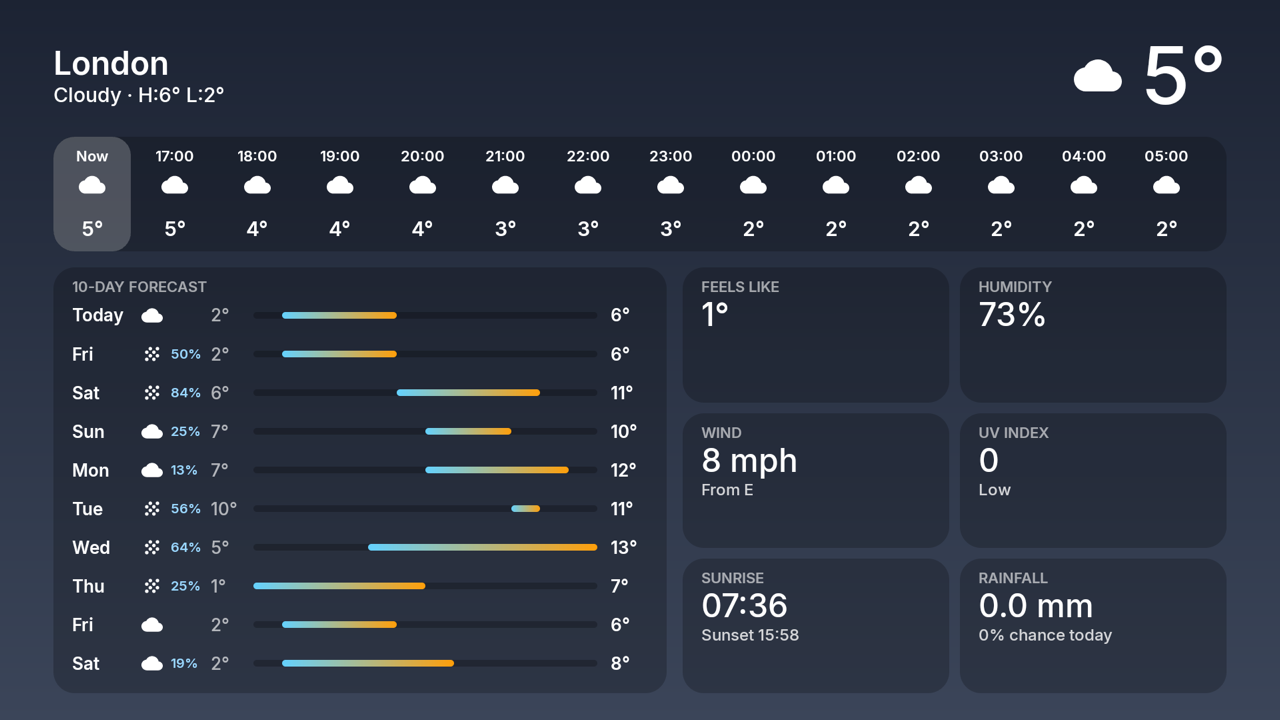
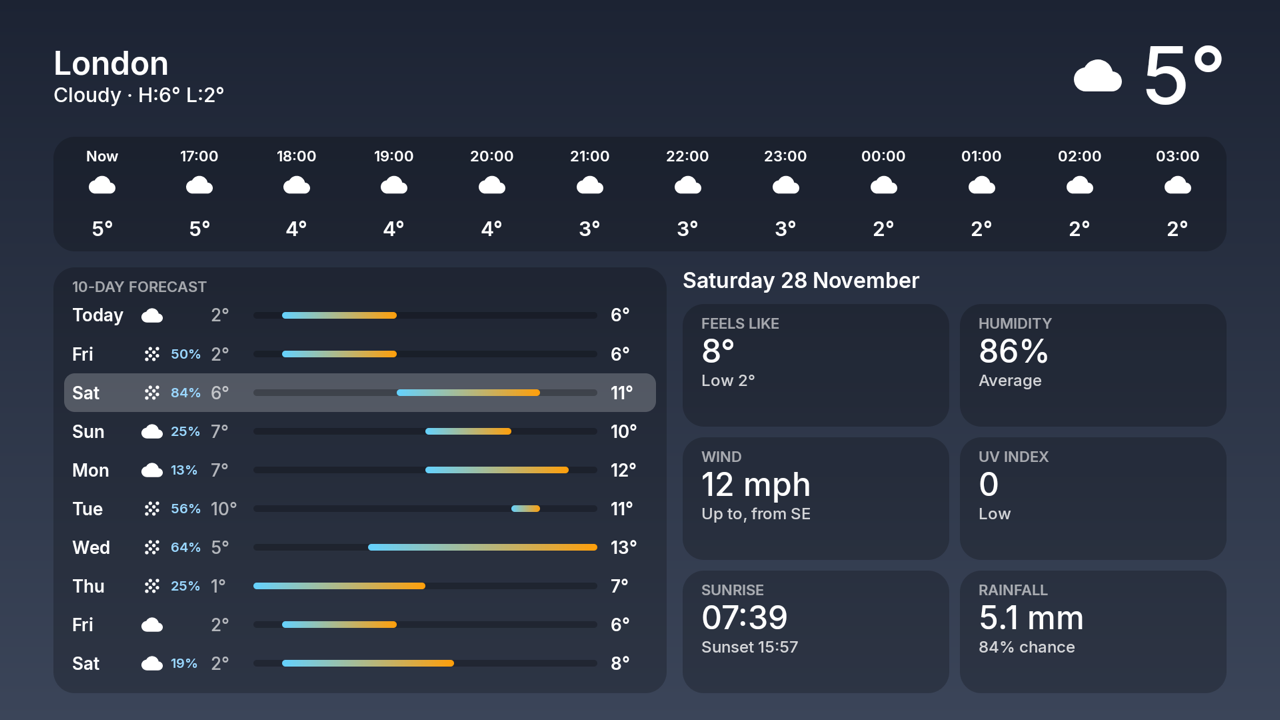
Weather: fixed 12-hour strip, and day-by-day details (1.2.1)

diff --git a/app/src/main/java/com/home/dashboard/Screens.kt b/app/src/main/java/com/home/dashboard/Screens.kt
@@ -22,13 +22,13 @@ import androidx.compose.foundation.layout.padding
 import androidx.compose.foundation.layout.size
 import androidx.compose.foundation.layout.width
 import androidx.compose.foundation.lazy.LazyColumn
-import androidx.compose.foundation.lazy.LazyRow
 import androidx.compose.foundation.lazy.items
 import androidx.compose.foundation.shape.CircleShape
 import androidx.compose.foundation.shape.RoundedCornerShape
 import androidx.compose.runtime.Composable
 import androidx.compose.runtime.LaunchedEffect
 import androidx.compose.runtime.getValue
+import androidx.compose.runtime.mutableIntStateOf
 import androidx.compose.runtime.mutableStateOf
 import androidx.compose.runtime.remember
 import androidx.compose.runtime.setValue
@@ -219,17 +219,37 @@ private fun uvLabel(uv: Int) = when {
     else -> "Extreme"
 }
 
-/** Current conditions, the next 24 hours, ten days and the day's details. */
+data class WeatherTile(val label: String, val value: String, val note: String)
+
+/** The six detail tiles for day [index]; today shows conditions as they are now. */
+fun dayTiles(w: Weather, index: Int): List<WeatherTile> {
+    val d = w.days.getOrNull(index)
+    val today = index == 0
+    return listOf(
+        if (today) WeatherTile("FEELS LIKE", "${w.feels}°", "Now")
+        else WeatherTile("FEELS LIKE", "${d?.feelsHi ?: 0}°", "Low ${d?.feelsLo ?: 0}°"),
+        if (today) WeatherTile("HUMIDITY", "${w.humidity}%", "Now")
+        else WeatherTile("HUMIDITY", "${d?.humidity ?: 0}%", "Average"),
+        if (today) WeatherTile("WIND", "${w.wind} ${w.windUnit}", "From ${compass(w.windDirection)}")
+        else WeatherTile("WIND", "${d?.wind ?: 0} ${w.windUnit}", "Up to, from ${compass(d?.windDirection ?: 0)}"),
+        WeatherTile("UV INDEX", "${d?.uv ?: 0}", uvLabel(d?.uv ?: 0)),
+        WeatherTile("SUNRISE", d?.sunrise?.format(Time) ?: "--", "Sunset ${d?.sunset?.format(Time) ?: "--"}"),
+        WeatherTile("RAINFALL", "${((d?.rainMm ?: 0.0) * 10).roundToInt() / 10.0} mm", "${d?.rain ?: 0}% chance"),
+    )
+}
+
+/** Current conditions and the next 12 hours; choose one of ten days to see its details. */
 @Composable
 fun WeatherScreen(w: Weather, place: String, onClose: () -> Unit) {
     BackHandler(onBack = onClose)
     val first = remember { FocusRequester() }
+    var chosen by remember { mutableIntStateOf(0) }
     LaunchedEffect(Unit) {
         delay(80)
         runCatching { first.requestFocus() }
     }
     val now = remember { LocalDateTime.now() }
-    val hours = w.hours.filter { it.time.isAfter(now.minusHours(1)) }.take(24)
+    val hours = w.hours.filter { it.time.isAfter(now.minusHours(1)) }.take(12)
 
     Column(Modifier.fillMaxSize().background(weatherBrush(w.code, w.isDay)).padding(horizontal = 40.dp, vertical = 20.dp)) {
         Row(Modifier.fillMaxWidth(), verticalAlignment = Alignment.CenterVertically) {
@@ -242,32 +262,34 @@ fun WeatherScreen(w: Weather, place: String, onClose: () -> Unit) {
             Txt("${w.temp}°", 60.sp, FontWeight.Medium, lineHeight = 66.sp, shadow = false)
         }
         Spacer(Modifier.height(10.dp))
-        LazyRow(
-            Modifier.fillMaxWidth().clip(RoundedCornerShape(16.dp)).background(Panel),
-            horizontalArrangement = Arrangement.spacedBy(4.dp),
-        ) {
-            items(hours) { h ->
-                val isFirst = h == hours.first()
-                FocusCard((if (isFirst) Modifier.focusRequester(first) else Modifier).width(58.dp), Color.Transparent) {
-                    Column(Modifier.fillMaxWidth().padding(vertical = 8.dp), horizontalAlignment = Alignment.CenterHorizontally) {
-                        Txt(if (isFirst) "Now" else h.time.format(Time), 11.sp, FontWeight.SemiBold, shadow = false)
-                        Spacer(Modifier.height(5.dp))
-                        WIcon(h.code, h.isDay, 20.dp)
-                        Spacer(Modifier.height(2.dp))
-                        Txt(if (h.rain >= 10) "${h.rain}%" else " ", 10.sp, FontWeight.SemiBold, color = Color(0xFF9AD7FF), shadow = false)
-                        Txt("${h.temp}°", 15.sp, FontWeight.SemiBold, shadow = false)
-                    }
+        Row(Modifier.fillMaxWidth().clip(RoundedCornerShape(16.dp)).background(Panel).padding(vertical = 8.dp)) {
+            hours.forEachIndexed { i, h ->
+                Column(Modifier.weight(1f), horizontalAlignment = Alignment.CenterHorizontally) {
+                    Txt(if (i == 0) "Now" else h.time.format(Time), 11.sp, FontWeight.SemiBold, shadow = false)
+                    Spacer(Modifier.height(5.dp))
+                    WIcon(h.code, h.isDay, 20.dp)
+                    Spacer(Modifier.height(2.dp))
+                    Txt(if (h.rain >= 10) "${h.rain}%" else " ", 10.sp, FontWeight.SemiBold, color = Color(0xFF9AD7FF), shadow = false)
+                    Txt("${h.temp}°", 15.sp, FontWeight.SemiBold, shadow = false)
                 }
             }
         }
         Spacer(Modifier.height(12.dp))
         Row(Modifier.fillMaxSize()) {
-            Column(Modifier.width(460.dp).fillMaxHeight().clip(RoundedCornerShape(16.dp)).background(Panel).padding(14.dp, 8.dp)) {
-                Txt("10-DAY FORECAST", 11.sp, FontWeight.SemiBold, alpha = 0.6f, shadow = false)
+            Column(Modifier.width(460.dp).fillMaxHeight().clip(RoundedCornerShape(16.dp)).background(Panel).padding(8.dp, 8.dp)) {
+                Txt("10-DAY FORECAST", 11.sp, FontWeight.SemiBold, Modifier.padding(start = 6.dp), alpha = 0.6f, shadow = false)
                 val low = w.days.minOfOrNull { it.lo } ?: 0
                 val span = ((w.days.maxOfOrNull { it.hi } ?: 1) - low).coerceAtLeast(1)
                 w.days.forEachIndexed { i, d ->
-                    Row(Modifier.fillMaxWidth().weight(1f), verticalAlignment = Alignment.CenterVertically) {
+                    Row(
+                        Modifier.fillMaxWidth().weight(1f).clip(RoundedCornerShape(8.dp))
+                            .background(if (i == chosen) Color.White.copy(alpha = 0.22f) else Color.Transparent)
+                            .then(if (i == 0) Modifier.focusRequester(first) else Modifier)
+                            .onFocusChanged { if (it.isFocused) chosen = i }
+                            .focusable()
+                            .padding(horizontal = 6.dp),
+                        verticalAlignment = Alignment.CenterVertically,
+                    ) {
                         Txt(if (i == 0) "Today" else d.date.format(ShortDay), 13.sp, FontWeight.SemiBold, Modifier.width(52.dp), shadow = false)
                         WIcon(d.code, true, 16.dp)
                         Txt(if (d.rain >= 10) "${d.rain}%" else "", 10.sp, FontWeight.SemiBold, Modifier.width(36.dp).padding(start = 6.dp), color = Color(0xFF9AD7FF), shadow = false)
@@ -285,16 +307,10 @@ fun WeatherScreen(w: Weather, place: String, onClose: () -> Unit) {
                 }
             }
             Spacer(Modifier.width(12.dp))
-            val today = w.days.firstOrNull()
-            val tiles = listOf(
-                Triple("FEELS LIKE", "${w.feels}°", ""),
-                Triple("HUMIDITY", "${w.humidity}%", ""),
-                Triple("WIND", "${w.wind} ${w.windUnit}", "From ${compass(w.windDirection)}"),
-                Triple("UV INDEX", "${today?.uv ?: 0}", uvLabel(today?.uv ?: 0)),
-                Triple("SUNRISE", today?.sunrise?.format(Time) ?: "--", "Sunset ${today?.sunset?.format(Time) ?: "--"}"),
-                Triple("RAINFALL", "${((today?.rainMm ?: 0.0) * 10).roundToInt() / 10.0} mm", "${today?.rain ?: 0}% chance today"),
-            )
             Column(Modifier.fillMaxSize(), verticalArrangement = Arrangement.spacedBy(8.dp)) {
+                val date = w.days.getOrNull(chosen)?.date
+                Txt(if (chosen == 0 || date == null) "Today" else date.format(LongDay), 16.sp, FontWeight.SemiBold, maxLines = 1, shadow = false)
+                val tiles = dayTiles(w, chosen)
                 tiles.chunked(2).forEach { pair ->
                     Row(Modifier.fillMaxWidth().weight(1f), horizontalArrangement = Arrangement.spacedBy(8.dp)) {
                         pair.forEach { (label, value, note) ->

diff --git a/app/src/main/java/com/home/dashboard/Data.kt b/app/src/main/java/com/home/dashboard/Data.kt
@@ -137,6 +137,7 @@ data class Day(
     val date: LocalDate, val code: Int, val hi: Int, val lo: Int,
     val rain: Int = 0, val rainMm: Double = 0.0, val uv: Int = 0,
     val sunrise: LocalDateTime? = null, val sunset: LocalDateTime? = null,
+    val feelsHi: Int = 0, val feelsLo: Int = 0, val humidity: Int = 0, val wind: Int = 0, val windDirection: Int = 0,
 )
 data class Hour(val time: LocalDateTime, val temp: Int, val code: Int, val isDay: Boolean, val rain: Int)
 data class Weather(
@@ -153,7 +154,8 @@ object WeatherApi {
             "&current=temperature_2m,apparent_temperature,weather_code,is_day,relative_humidity_2m,wind_speed_10m,wind_direction_10m" +
             "&hourly=temperature_2m,weather_code,is_day,precipitation_probability" +
             "&daily=weather_code,temperature_2m_max,temperature_2m_min,precipitation_probability_max,precipitation_sum," +
-            "uv_index_max,sunrise,sunset&wind_speed_unit=$unit&timezone=auto&forecast_days=10"
+            "uv_index_max,sunrise,sunset,apparent_temperature_max,apparent_temperature_min,relative_humidity_2m_mean," +
+            "wind_speed_10m_max,wind_direction_10m_dominant&wind_speed_unit=$unit&timezone=auto&forecast_days=10"
         return parse(Net.get(url), if (unit == "kmh") "km/h" else unit)
     }
 
@@ -176,6 +178,11 @@ object WeatherApi {
                 uv = d.num("uv_index_max", i).roundToInt(),
                 sunrise = d.time("sunrise", i),
                 sunset = d.time("sunset", i),
+                feelsHi = d.num("apparent_temperature_max", i).roundToInt(),
+                feelsLo = d.num("apparent_temperature_min", i).roundToInt(),
+                humidity = d.num("relative_humidity_2m_mean", i).roundToInt(),
+                wind = d.num("wind_speed_10m_max", i).roundToInt(),
+                windDirection = d.num("wind_direction_10m_dominant", i).roundToInt(),
             )
         }
         val h = j.optJSONObject("hourly")

diff --git a/app/src/test/java/com/home/dashboard/ScreensTest.kt b/app/src/test/java/com/home/dashboard/ScreensTest.kt
@@ -47,7 +47,9 @@ class ScreensTest {
                       "is_day":[1,0],"precipitation_probability":[5,null]},
             "daily":{"time":["2026-11-26"],"weather_code":[3],"temperature_2m_max":[6.2],"temperature_2m_min":[1.8],
                      "precipitation_probability_max":[40],"precipitation_sum":[1.25],"uv_index_max":[0.8],
-                     "sunrise":["2026-11-26T07:37"],"sunset":["2026-11-26T15:56"]}}"""
+                     "sunrise":["2026-11-26T07:37"],"sunset":["2026-11-26T15:56"],"apparent_temperature_max":[3.2],
+                     "apparent_temperature_min":[-1.4],"relative_humidity_2m_mean":[75],"wind_speed_10m_max":[15.5],
+                     "wind_direction_10m_dominant":[82]}}"""
         val w = WeatherApi.parse(json, "mph")
         assertEquals(4, w.temp)
         assertEquals(10, w.wind)
@@ -56,5 +58,9 @@ class ScreensTest {
         assertEquals(1, w.days[0].uv)
         assertEquals(15, w.days[0].sunset!!.hour)
         assertEquals(6, w.hi)
+        assertEquals(WeatherTile("FEELS LIKE", "2°", "Now"), dayTiles(w, 0)[0])
+        val later = dayTiles(w.copy(days = w.days + w.days), 1)
+        assertEquals(WeatherTile("FEELS LIKE", "3°", "Low -1°"), later[0])
+        assertEquals(WeatherTile("WIND", "16 mph", "Up to, from E"), later[2])
     }
 }

diff --git a/README.md b/README.md
@@ -18,7 +18,8 @@ camera pictures are stock photos. Photos from [Unsplash](https://unsplash.com) b
 
 - **Widgets:** clock, weather with a 5-day forecast, heating from [Home Assistant](#heating-from-home-assistant)
   or [Google Nest](#google-nest-thermostat-experimental) and a merged calendar from any number of iCal / webcal links
-- **Weather and calendar screens:** select either widget for hourly and 10-day weather, or the
+- **Weather and calendar screens:** select either widget for the next 12 hours and 10 days of
+  weather (move down the days for each one's details), or the
   next 30 days with event dots and details
 - **Wallpaper:** random photos from Unsplash
 - **Apps:** a favourites row, every other app, and physical inputs on TVs that have them. Hold OK on
